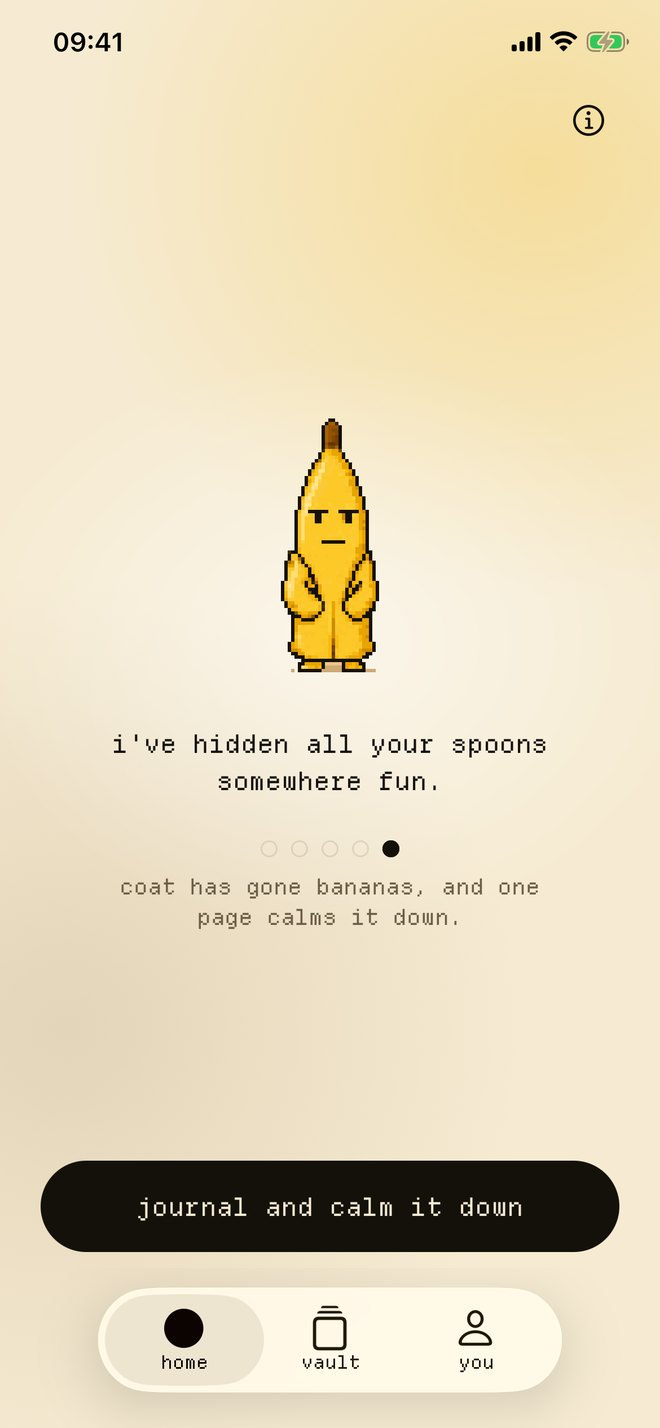
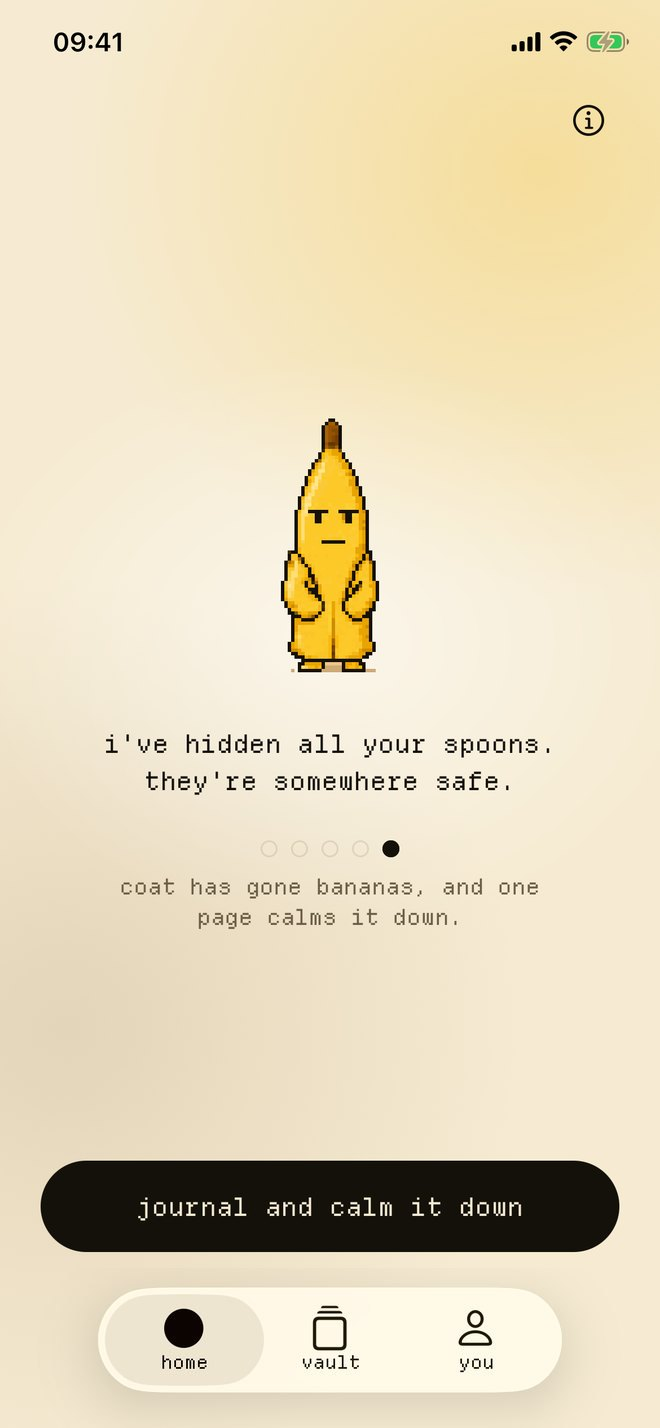
web: the rogue shot shows the new plain line (not published yet)

Changed region(s): [[0.2121, 0.493, 0.8182, 0.5546], [0.1515, 0.493, 0.1818, 0.5238]]

diff --git a/index.html b/index.html
@@ -185,7 +185,7 @@
     <p class="speech">it never leaves. from the fifth day it does something strange every day, on your home screen widget, in the app and on your computer.</p>
     <p class="speech">journal anything at all and it calms straight down.</p>
   </div>
-  <figure class="shot-cap"><figure class="phone-shot"><img src="img/product/rogue.jpg?v=life" alt="the skriblio home screen after five quiet days, with coat still standing in the middle. its line says 'i've hidden all your spoons somewhere fun'. under it the last of five dots is filled, with 'coat has gone bananas, and one page calms it down'. the button says 'journal and calm it down'." width="330" height="714" loading="lazy" decoding="async" /></figure><figcaption>after five quiet days it's still right there on the 'home' tab, up to something new every day.</figcaption></figure>
+  <figure class="shot-cap"><figure class="phone-shot"><img src="img/product/rogue.jpg?v=life" alt="the skriblio home screen after five quiet days, with coat still standing in the middle. its line says 'i've hidden all your spoons. they're somewhere safe.' under it the last of five dots is filled, with 'coat has gone bananas, and one page calms it down'. the button says 'journal and calm it down'." width="330" height="714" loading="lazy" decoding="async" /></figure><figcaption>after five quiet days it's still right there on the 'home' tab, up to something new every day.</figcaption></figure>
 </section>
 
 <section class="paper-split flip" id="widgets" aria-labelledby="widget-h">

diff --git a/rogue/index.html b/rogue/index.html
@@ -59,7 +59,7 @@
     <div class="badges"><a class="badge" href="../download/">download</a></div>
     <p class="fine">pick a plan and the first two weeks are free. after that it's $49.99 a year or $9.99 a month, and both plans include the desktop companion.</p>
   </div>
-  <figure class="phone-shot"><img src="../img/product/rogue.jpg?v=life" alt="the skriblio home screen after five quiet days, with coat still standing in the middle. its line says 'i've hidden all your spoons somewhere fun'. under it the last of five dots is filled, with 'coat has gone bananas, and one page calms it down'. the button says 'journal and calm it down'." width="330" height="714" fetchpriority="high" /></figure>
+  <figure class="phone-shot"><img src="../img/product/rogue.jpg?v=life" alt="the skriblio home screen after five quiet days, with coat still standing in the middle. its line says 'i've hidden all your spoons. they're somewhere safe.' under it the last of five dots is filled, with 'coat has gone bananas, and one page calms it down'. the button says 'journal and calm it down'." width="330" height="714" fetchpriority="high" /></figure>
 </section>
 <section aria-labelledby="facts-h">
   <h2 id="facts-h">what you get</h2>
